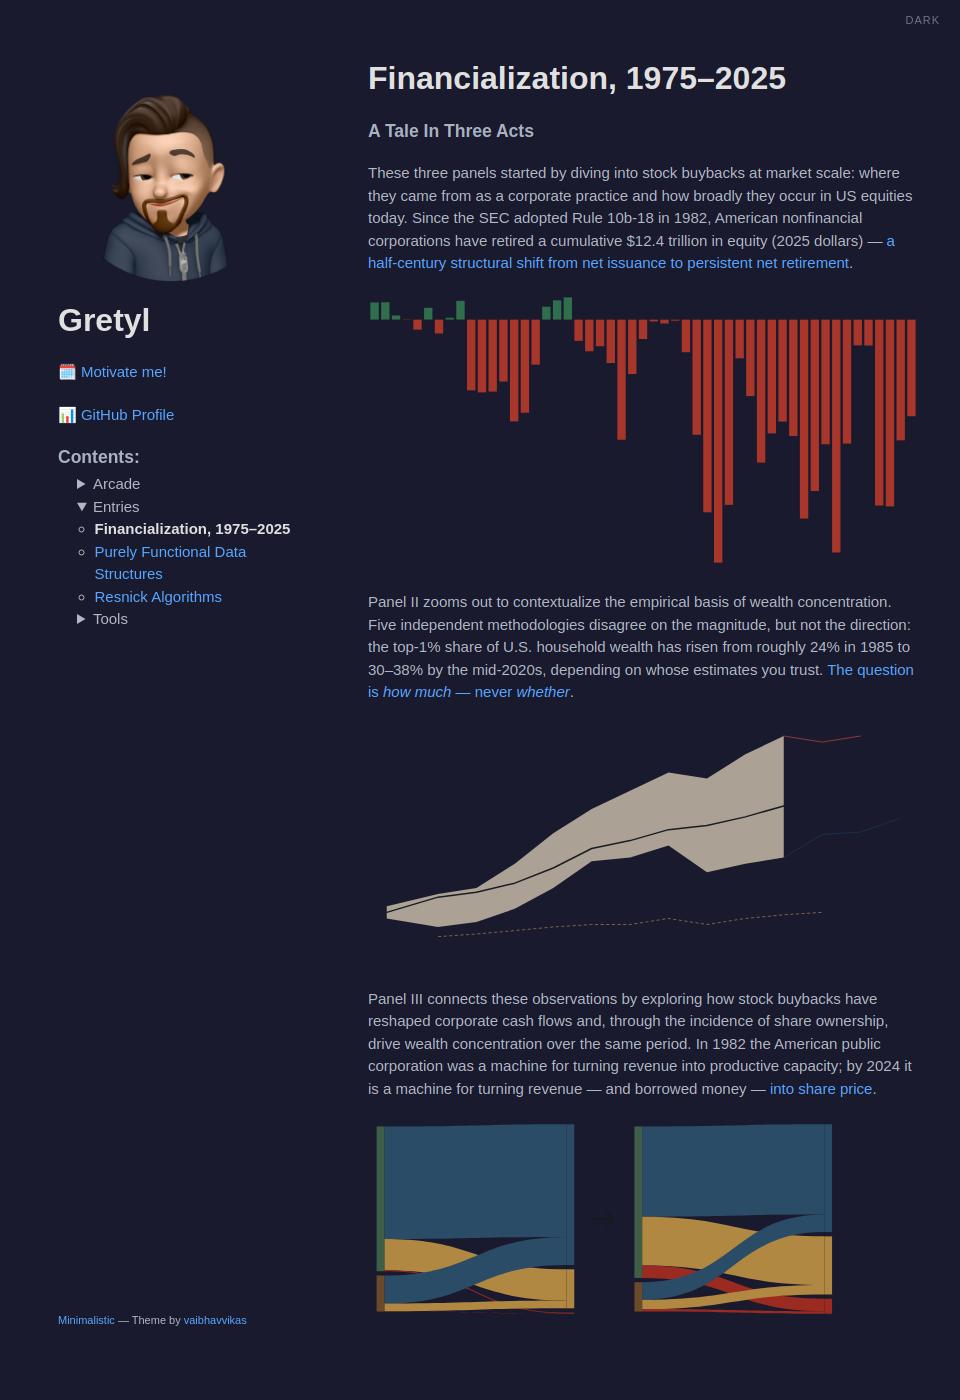
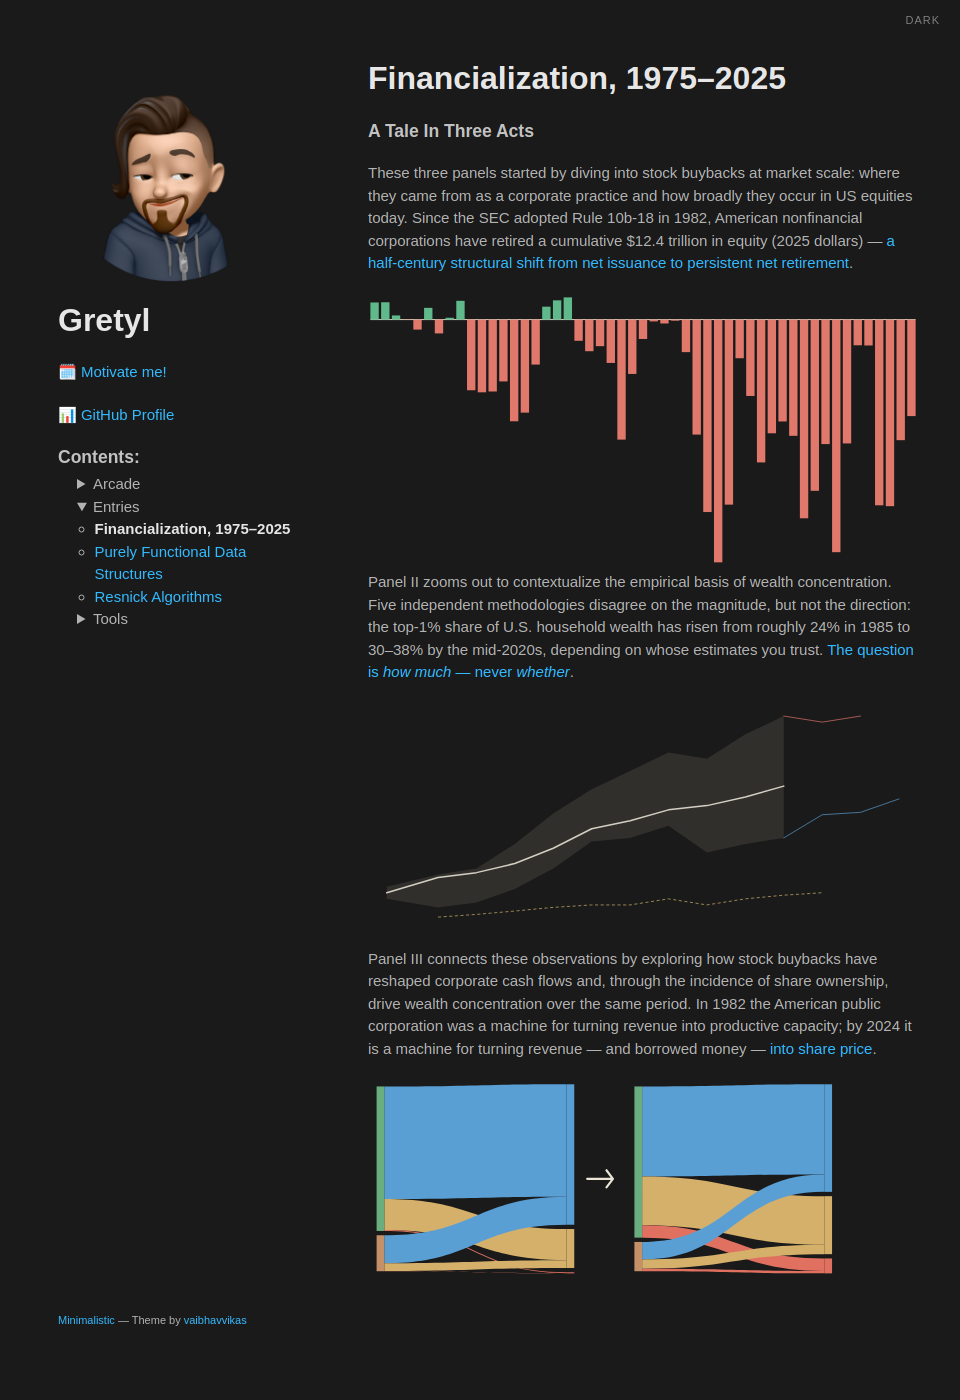
refactor(previews): unify light/dark mock with prefers-color-scheme and inline SVGs
Single mock HTML uses @media (prefers-color-scheme: dark) matching the
live site's HSL palette. SVGs are inlined so they share the document
context and respond to color scheme emulation. Dark screenshot taken
via CDP Emulation.setEmulatedMedia.

https://claude.ai/code/session_01QpM5jAKUYKQpnf86vADhZG

Changed region(s): [[0.375, 0.5221, 0.9375, 0.9521], [0.375, 0.215, 0.9688, 0.5221], [0.125, 0.3993, 0.1562, 0.43]]

diff --git a/previews/financialization-heading-preview.html b/previews/financialization-heading-preview.html
@@ -5,14 +5,28 @@
   <meta name="viewport" content="width=device-width, initial-scale=1">
   <style>
     :root {
-      --clr-bg: #fff;
-      --clr-text: #606c71;
-      --clr-h1-and-bold: #333;
-      --clr-h2: #586069;
-      --clr-h-3-6: #586069;
-      --clr-a-text: #1e6bb8;
-      --clr-a-text-hvr: #159957;
-      --clr-splitter-blockquote-and-section: #ddd;
+      --clr-bg: hsl(0, 0%, 100%);
+      --clr-text: hsl(0, 0%, 45%);
+      --clr-h1-and-bold: hsl(0, 0%, 13%);
+      --clr-h2: hsl(0, 0%, 22%);
+      --clr-h-3-6: hsl(0, 0%, 29%);
+      --clr-a-text: hsl(200, 100%, 35%);
+      --clr-a-text-hvr: hsl(200, 100%, 28%);
+      --clr-splitter-blockquote-and-section: hsl(0, 0%, 90%);
+    }
+
+    @media (prefers-color-scheme: dark) {
+      :root {
+        color-scheme: dark;
+        --clr-bg: hsl(0, 0%, 10%);
+        --clr-text: hsl(0, 0%, 70%);
+        --clr-h1-and-bold: hsl(0, 0%, 90%);
+        --clr-h2: hsl(0, 0%, 83%);
+        --clr-h-3-6: hsl(0, 0%, 76%);
+        --clr-a-text: hsl(200, 100%, 60%);
+        --clr-a-text-hvr: hsl(200, 100%, 48%);
+        --clr-splitter-blockquote-and-section: hsl(0, 0%, 15%);
+      }
     }
 
     html { scroll-behavior: smooth; }
@@ -86,6 +100,8 @@
       padding-bottom: 30px;
     }
 
+    section svg { width: 100%; height: auto; }
+
     .sidebar-footer {
       width: 250px;
       float: left;
@@ -103,10 +119,14 @@
       color: var(--clr-h-3-6);
       opacity: 0.6;
     }
+    .mode-label::after { content: "Light"; }
+    @media (prefers-color-scheme: dark) {
+      .mode-label::after { content: "Dark"; }
+    }
   </style>
 </head>
 <body>
-  <div class="mode-label">Light</div>
+  <div class="mode-label"></div>
   <div class="wrapper">
     <div class="sidebar">
       <header>
@@ -165,7 +185,72 @@
       trillion in equity (2025 dollars) &mdash; <a href="#">a half-century structural shift
       from net issuance to persistent net retirement</a>.</p>
 
-      <p><a href="#"><img src="../docs/entries/financialization/svg/thumb-net-equity.svg" alt="Annual net equity issuance, 1975 to 2025"></a></p>
+      <a href="#">
+<svg xmlns="http://www.w3.org/2000/svg" viewBox="58.0 51.4 926.0 454.1">
+<style>
+  .pos { fill: #2f6f4e; }
+  .neg { fill: #a8362b; }
+  .zero { stroke: #1a1a1a; stroke-width: 1.5; }
+  @media (prefers-color-scheme: dark) {
+    .pos { fill: #5fb98a; }
+    .neg { fill: #e0796c; }
+    .zero { stroke: #ece6d5; }
+  }
+</style>
+  <line class="zero" x1="62.0" y1="92.8" x2="980.0" y2="92.8"/>
+  <rect class="pos" x="62.0" y="63.96" width="14.08" height="28.84"/>
+  <rect class="pos" x="80.08" y="63.62" width="14.08" height="29.18"/>
+  <rect class="pos" x="98.16" y="85.82" width="14.08" height="6.98"/>
+  <rect class="neg" x="116.24" y="92.8" width="14.08" height="0.5"/>
+  <rect class="neg" x="134.31" y="92.8" width="14.08" height="16.84"/>
+  <rect class="pos" x="152.39" y="73.04" width="14.08" height="19.76"/>
+  <rect class="neg" x="170.47" y="92.8" width="14.08" height="23.28"/>
+  <rect class="pos" x="188.55" y="89.73" width="14.08" height="3.07"/>
+  <rect class="pos" x="206.63" y="61.18" width="14.08" height="31.62"/>
+  <rect class="neg" x="224.71" y="92.8" width="14.08" height="118.97"/>
+  <rect class="neg" x="242.78" y="92.8" width="14.08" height="122.44"/>
+  <rect class="neg" x="260.86" y="92.8" width="14.08" height="121.07"/>
+  <rect class="neg" x="278.94" y="92.8" width="14.08" height="104.09"/>
+  <rect class="neg" x="297.02" y="92.8" width="14.08" height="171.19"/>
+  <rect class="neg" x="315.1" y="92.8" width="14.08" height="156.65"/>
+  <rect class="neg" x="333.18" y="92.8" width="14.08" height="75.74"/>
+  <rect class="pos" x="351.25" y="71.08" width="14.08" height="21.72"/>
+  <rect class="pos" x="369.33" y="60.4" width="14.08" height="32.4"/>
+  <rect class="pos" x="387.41" y="55.42" width="14.08" height="37.38"/>
+  <rect class="neg" x="405.49" y="92.8" width="14.08" height="35.72"/>
+  <rect class="neg" x="423.57" y="92.8" width="14.08" height="53.24"/>
+  <rect class="neg" x="441.65" y="92.8" width="14.08" height="44.75"/>
+  <rect class="neg" x="459.73" y="92.8" width="14.08" height="73.0"/>
+  <rect class="neg" x="477.8" y="92.8" width="14.08" height="202.08"/>
+  <rect class="neg" x="495.88" y="92.8" width="14.08" height="91.5"/>
+  <rect class="neg" x="513.96" y="92.8" width="14.08" height="32.65"/>
+  <rect class="neg" x="532.04" y="92.8" width="14.08" height="3.07"/>
+  <rect class="neg" x="550.12" y="92.8" width="14.08" height="6.54"/>
+  <rect class="neg" x="568.2" y="92.8" width="14.08" height="1.85"/>
+  <rect class="neg" x="586.27" y="92.8" width="14.08" height="54.8"/>
+  <rect class="neg" x="604.35" y="92.8" width="14.08" height="193.64"/>
+  <rect class="neg" x="622.43" y="92.8" width="14.08" height="324.03"/>
+  <rect class="neg" x="640.51" y="92.8" width="14.08" height="408.75"/>
+  <rect class="neg" x="658.59" y="92.8" width="14.08" height="311.54"/>
+  <rect class="neg" x="676.67" y="92.8" width="14.08" height="65.05"/>
+  <rect class="neg" x="694.75" y="92.8" width="14.08" height="128.59"/>
+  <rect class="neg" x="712.82" y="92.8" width="14.08" height="240.49"/>
+  <rect class="neg" x="730.9" y="92.8" width="14.08" height="191.39"/>
+  <rect class="neg" x="748.98" y="92.8" width="14.08" height="171.53"/>
+  <rect class="neg" x="767.06" y="92.8" width="14.08" height="195.69"/>
+  <rect class="neg" x="785.14" y="92.8" width="14.08" height="334.57"/>
+  <rect class="neg" x="803.22" y="92.8" width="14.08" height="288.31"/>
+  <rect class="neg" x="821.29" y="92.8" width="14.08" height="209.6"/>
+  <rect class="neg" x="839.37" y="92.8" width="14.08" height="391.62"/>
+  <rect class="neg" x="857.45" y="92.8" width="14.08" height="208.52"/>
+  <rect class="neg" x="875.53" y="92.8" width="14.08" height="43.24"/>
+  <rect class="neg" x="893.61" y="92.8" width="14.08" height="43.58"/>
+  <rect class="neg" x="911.69" y="92.8" width="14.08" height="312.66"/>
+  <rect class="neg" x="929.76" y="92.8" width="14.08" height="314.13"/>
+  <rect class="neg" x="947.84" y="92.8" width="14.08" height="203.01"/>
+  <rect class="neg" x="965.92" y="92.8" width="14.08" height="162.5"/>
+</svg>
+      </a>
 
       <p>Panel II zooms out to contextualize the empirical basis of wealth
       concentration. Five independent methodologies disagree on the magnitude,
@@ -174,7 +259,29 @@
       whose estimates you trust. <a href="#">The question is <em>how much</em> &mdash; never
       <em>whether</em></a>.</p>
 
-      <p><a href="#"><img src="../docs/entries/financialization/svg/thumb-wealth.svg" alt="Top-1% wealth share rising across four methodologies"></a></p>
+      <a href="#">
+<svg xmlns="http://www.w3.org/2000/svg" viewBox="100 40 880 380">
+<style>
+  .envelope { fill: #E8DCC0; opacity: 0.7; }
+  .median { fill: none; stroke: #1A1D24; stroke-width: 2.4; stroke-linecap: round; stroke-linejoin: round; }
+  .cms { fill: none; stroke: #9B8147; stroke-width: 1.4; stroke-dasharray: 5 4; opacity: 0.85; }
+  .ext-dfa { fill: none; stroke: #1B3A57; stroke-width: 1.4; stroke-linecap: round; opacity: 0.78; }
+  .ext-psz { fill: none; stroke: #C1473A; stroke-width: 1.4; stroke-linecap: round; opacity: 0.78; }
+  @media (prefers-color-scheme: dark) {
+    .envelope { fill: rgba(232,220,192,0.15); }
+    .median { stroke: #d4cfc3; }
+    .cms { stroke: #c4a86a; }
+    .ext-dfa { stroke: #5a9fd4; }
+    .ext-psz { stroke: #e0756a; }
+  }
+</style>
+<path class="envelope" d="M 130 332.25 L 212 312.75 L 273.5 303 L 334.9 264 L 396.4 215.25 L 457.9 176.25 L 519.4 147 L 580.8 117.75 L 642.3 127.5 L 703.8 88.5 L 765.2 59.25 L 765.2 254.25 L 703.8 264 L 642.3 277.65 L 580.8 234.75 L 519.4 254.25 L 457.9 260.1 L 396.4 303 L 334.9 336.15 L 273.5 357.6 L 212 365.4 L 130 351.75 Z"/>
+<path class="median" d="M 130 342 L 212 317.625 L 273.5 309.825 L 334.9 295.2 L 396.4 270.825 L 457.9 239.625 L 519.4 226.95 L 580.8 209.375 L 642.3 202.575 L 703.8 188.925 L 765.2 171.375"/>
+<path class="cms" d="M 212 381 L 273.5 376.65 L 334.9 371.25 L 396.4 365.4 L 457.9 361.5 L 519.4 361.5 L 580.8 351.75 L 642.3 361.5 L 703.8 351.75 L 765.2 345.9 L 826.7 342"/>
+<path class="ext-dfa" d="M 765.2 254.25 L 826.7 217.2 L 888.2 213.3 L 949.7 191.85"/>
+<path class="ext-psz" d="M 765.2 59.25 L 826.7 69 L 888.2 59.25"/>
+</svg>
+      </a>
 
       <p>Panel III connects these observations by exploring how stock buybacks
       have reshaped corporate cash flows and, through the incidence of share
@@ -183,7 +290,53 @@
       productive capacity; by 2024 it is a machine for turning revenue &mdash; and
       borrowed money &mdash; <a href="#">into share price</a>.</p>
 
-      <p><a href="#"><img src="../docs/entries/financialization/svg/thumb-sankey.svg" alt="Corporate cash allocation in 1982 versus 2024"></a></p>
+      <a href="#">
+<svg xmlns="http://www.w3.org/2000/svg" viewBox="130 30 1280 460">
+<style>
+  .ocf { fill: #3F5E48; }
+  .debt { fill: #6B4A2B; }
+  .capex { fill: #2A4C66; }
+  .div { fill: #B08841; }
+  .buyback { fill: #9B2A21; }
+  .arrow { fill: none; stroke: #1a1a1a; stroke-width: 5; stroke-linecap: round; stroke-linejoin: round; }
+  @media (prefers-color-scheme: dark) {
+    .ocf { fill: #6aad7e; }
+    .debt { fill: #c49068; }
+    .capex { fill: #5a9fd4; }
+    .div { fill: #d4b06a; }
+    .buyback { fill: #e07060; }
+    .arrow { stroke: #ece6d5; }
+  }
+</style>
+<g>
+  <path class="capex" d="M 168 45 C 380 45, 380 40, 592 40 L 592 301.72 C 380 301.72, 380 306.72, 168 306.72 Z"/>
+  <path class="div" d="M 168 306.72 C 380 306.72, 380 376.84, 592 376.84 L 592 449.42 C 380 449.42, 380 379.29, 168 379.29 Z"/>
+  <path class="buyback" d="M 168 379.29 C 380 379.29, 380 477.47, 592 477.47 L 592 479.50 C 380 479.50, 380 381.32, 168 381.32 Z"/>
+  <path class="capex" d="M 168 391.32 C 380 391.32, 380 301.72, 592 301.72 L 592 366.84 C 380 366.84, 380 456.44, 168 456.44 Z"/>
+  <path class="div" d="M 168 456.44 C 380 456.44, 380 449.42, 592 449.42 L 592 467.47 C 380 467.47, 380 474.50, 168 474.50 Z"/>
+  <path class="buyback" d="M 168 474.50 C 380 474.50, 380 479.50, 592 479.50 L 592 480.00 C 380 480.00, 380 475.00, 168 475.00 Z"/>
+  <rect class="ocf" x="150" y="45" width="18" height="336.32"/>
+  <rect class="debt" x="150" y="391.32" width="18" height="83.68"/>
+  <rect class="capex" x="592" y="40" width="18" height="326.84"/>
+  <rect class="div" x="592" y="376.84" width="18" height="90.63"/>
+  <rect class="buyback" x="592" y="477.47" width="18" height="2.53"/>
+</g>
+<path class="arrow" d="M 640 260 L 700 260 M 685 240 L 700 260 L 685 280"/>
+<g transform="translate(600, 0)">
+  <path class="capex" d="M 168 45 C 380 45, 380 40, 592 40 L 592 249.73 C 380 249.73, 380 254.73, 168 254.73 Z"/>
+  <path class="div" d="M 168 254.73 C 380 254.73, 380 300.33, 592 300.33 L 592 413.42 C 380 413.42, 380 367.82, 168 367.82 Z"/>
+  <path class="buyback" d="M 168 367.82 C 380 367.82, 380 445.31, 592 445.31 L 592 474.37 C 380 474.37, 380 396.88, 168 396.88 Z"/>
+  <path class="capex" d="M 168 406.88 C 380 406.88, 380 249.73, 592 249.73 L 592 290.33 C 380 290.33, 380 447.48, 168 447.48 Z"/>
+  <path class="div" d="M 168 447.48 C 380 447.48, 380 413.42, 592 413.42 L 592 435.31 C 380 435.31, 380 469.37, 168 469.37 Z"/>
+  <path class="buyback" d="M 168 469.37 C 380 469.37, 380 474.37, 592 474.37 L 592 480 C 380 480, 380 475, 168 475 Z"/>
+  <rect class="ocf" x="150" y="45" width="18" height="351.88"/>
+  <rect class="debt" x="150" y="406.88" width="18" height="68.12"/>
+  <rect class="capex" x="592" y="40" width="18" height="250.33"/>
+  <rect class="div" x="592" y="300.33" width="18" height="134.99"/>
+  <rect class="buyback" x="592" y="445.31" width="18" height="34.69"/>
+</g>
+</svg>
+      </a>
     </section>
   </div>
 </body>
